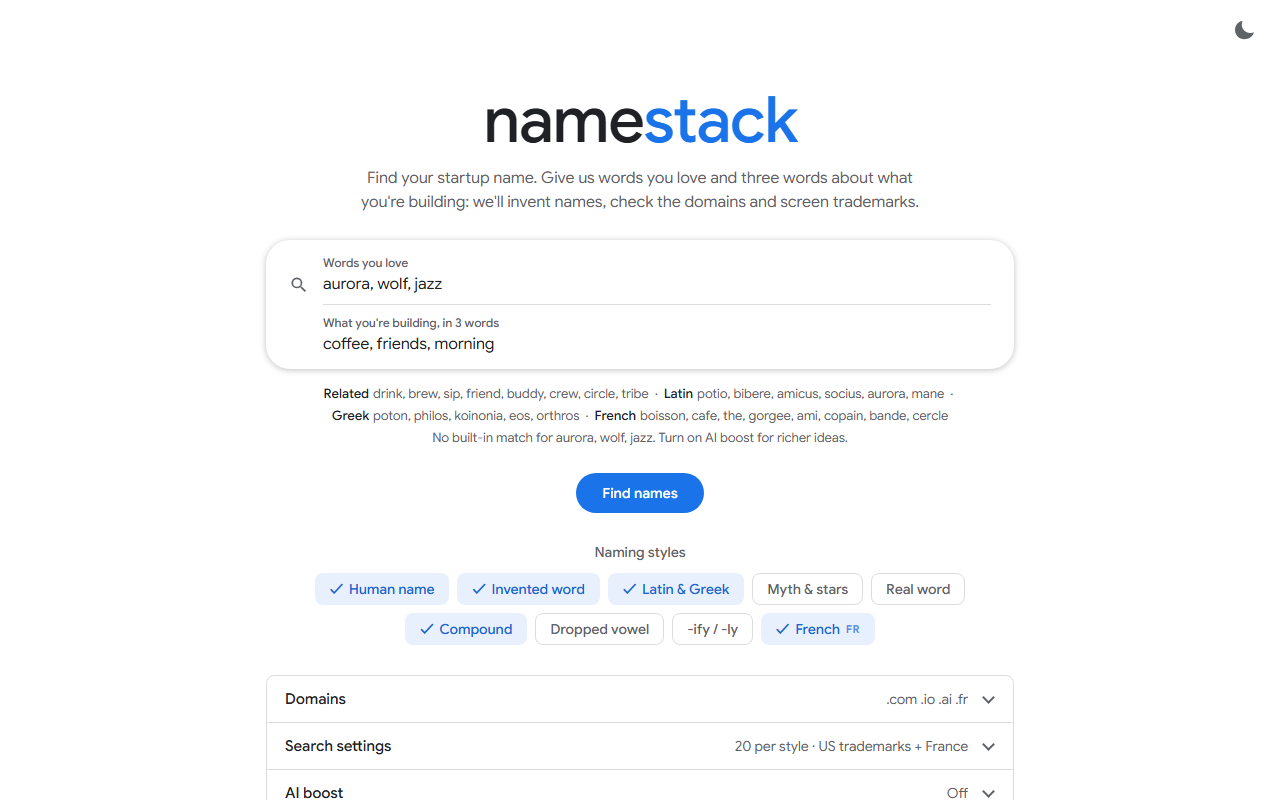
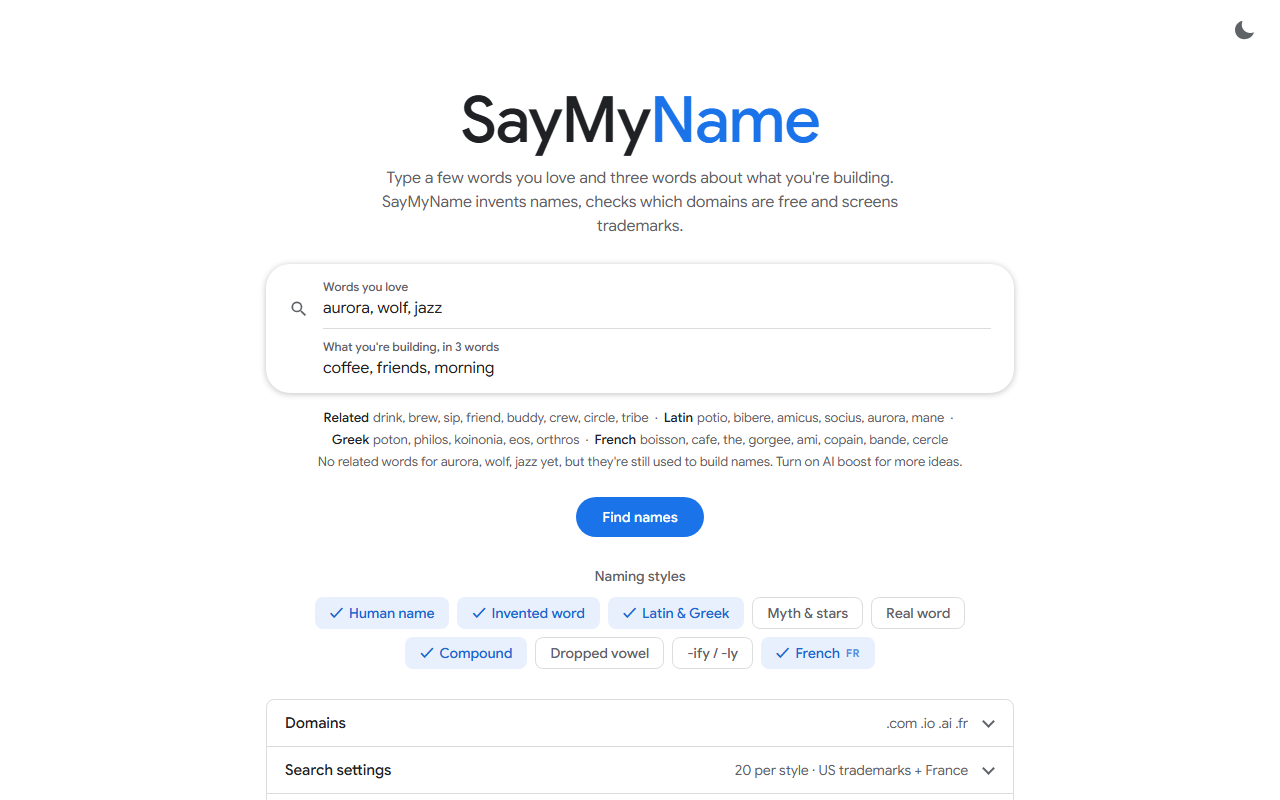
Rename the app to SayMyName and make Find names sing
- User-facing name is now SayMyName (logo, tab title, export files,
  launcher messages, README). The Python package and commands stay
  namestack.
- Clicking Find names shows a comic speech bubble next to the button
  singing "Say my name, say my name!" for 3 s, with the button bouncing
  and music notes floating up; the page then scrolls to the results.
- Clearer, consistent copy: matching status labels, capitalized status
  messages, "Done: N available domains", plainer settings and AI text.

diff --git a/namestack/server.py b/namestack/server.py
@@ -1,4 +1,4 @@
-"""namestack web UI - a zero-dependency localhost interface.
+"""SayMyName web UI (the namestack package) - a zero-dependency localhost interface.
 
 Serves a single-page app and streams availability/trademark results to the
 browser over Server-Sent Events. Only the Python standard library is required
@@ -34,10 +34,10 @@ INDEX_HTML = r"""<!doctype html>
 <head>
 <meta charset="utf-8">
 <meta name="viewport" content="width=device-width, initial-scale=1">
-<title>namestack</title>
+<title>SayMyName</title>
 <link rel="preconnect" href="https://fonts.googleapis.com">
 <link rel="preconnect" href="https://fonts.gstatic.com" crossorigin>
-<link rel="stylesheet" href="https://fonts.googleapis.com/css2?family=Google+Sans:wght@400;500;700&display=swap">
+<link rel="stylesheet" href="https://fonts.googleapis.com/css2?family=Google+Sans:wght@400;500;700&family=Bangers&display=swap">
 <script>
 try{ const t=localStorage.getItem('namestack.theme'); if(t==='light'||t==='dark') document.documentElement.dataset.theme=t; }catch{}
 </script>
@@ -189,12 +189,45 @@ tbody tr:hover{background:var(--hover)}
 #tip.show{opacity:1}
 #toast{position:fixed;left:50%;bottom:24px;transform:translateX(-50%);background:var(--tip-bg);color:var(--tip-text);
   border-radius:4px;padding:14px 16px;font-size:14px;display:none;max-width:calc(100vw - 32px);z-index:60;box-shadow:var(--menu-shadow)}
+/* "Say my name" bubble: the Find names button sings for 3 s when clicked */
+.singer{position:relative;display:inline-block}
+.smn{position:absolute;left:calc(100% + 26px);top:50%;transform:translateY(-50%);z-index:30;pointer-events:none;visibility:hidden}
+.smn.show{visibility:visible}
+.smn-bubble{position:relative;background:#fff;color:#111;border:3px solid #111;border-radius:50%/42%;padding:12px 20px;
+  font:400 22px/1.05 Bangers,"Comic Sans MS",cursive;letter-spacing:.04em;text-align:center;white-space:nowrap;
+  box-shadow:4px 4px 0 #111;transform-origin:0 50%;transform:scale(0)}
+.smn-bubble::before,.smn-bubble::after{content:"";position:absolute;width:0;height:0;border-style:solid}
+.smn-bubble::before{left:-27px;top:calc(50% - 11px);border-width:11px 30px 11px 0;border-color:transparent #111 transparent transparent}
+.smn-bubble::after{left:-19px;top:calc(50% - 7px);border-width:7px 21px 7px 0;border-color:transparent #fff transparent transparent}
+.smn.show .smn-bubble{animation:smn-pop .35s cubic-bezier(.2,1.8,.4,1) forwards,smn-sing .5s .45s ease-in-out 4 alternate,smn-out .25s 2.75s ease-in forwards}
+.smn-bubble .w{display:inline-block;opacity:0;transform:translateY(6px) scale(.6)}
+.smn.show .smn-bubble .w{animation:smn-word .25s cubic-bezier(.2,1.8,.4,1) forwards;animation-delay:calc(.2s + var(--i) * .2s)}
+.smn-note{position:absolute;bottom:70%;font-size:22px;color:var(--accent);opacity:0;pointer-events:none;visibility:hidden}
+.smn-note.show{visibility:visible;animation:smn-note 1.5s ease-out forwards;animation-delay:var(--d)}
+.btn-primary.singing{animation:smn-bounce .25s ease-in-out 12 alternate}
+@keyframes smn-pop{to{transform:scale(1)}}
+@keyframes smn-sing{from{transform:scale(1) rotate(-2deg)}to{transform:scale(1.06) rotate(2deg)}}
+@keyframes smn-out{from{transform:scale(1)}to{transform:scale(0);opacity:0}}
+@keyframes smn-word{to{opacity:1;transform:none}}
+@keyframes smn-note{0%{opacity:0;transform:translate(0,0) rotate(0)}20%{opacity:1}100%{opacity:0;transform:translate(var(--x),-60px) rotate(20deg)}}
+@keyframes smn-bounce{from{transform:scale(1)}to{transform:scale(1.06) translateY(-2px)}}
+@media (prefers-reduced-motion:reduce){
+  .smn.show .smn-bubble{animation:none;transform:none}
+  .smn.show .smn-bubble .w{animation:none;opacity:1;transform:none}
+  .btn-primary.singing{animation:none}
+  .smn-note{display:none}
+}
 @media (max-width:640px){
   .wrap{padding-top:12px}
   .logo{font-size:44px}.hero p{font-size:15px}
   .search{padding:4px 16px}
   .search .mag{display:none}
   .btn-primary{width:100%}
+  .singer{display:block;width:100%}
+  .smn{left:auto;right:6px;top:auto;bottom:calc(100% + 18px);transform:none}
+  .smn-bubble{font-size:19px;transform-origin:80% 100%}
+  .smn-bubble::before{left:auto;right:30%;top:auto;bottom:-27px;border-width:30px 11px 0 11px;border-color:#111 transparent transparent transparent}
+  .smn-bubble::after{left:auto;right:calc(30% + 4px);top:auto;bottom:-19px;border-width:21px 7px 0 7px;border-color:#fff transparent transparent transparent}
   .ai-grid{grid-template-columns:1fr}
 }
 </style>
@@ -208,8 +241,8 @@ tbody tr:hover{background:var(--hover)}
 </div>
 <div class="wrap">
   <div class="hero">
-    <h1 class="logo">name<span>stack</span></h1>
-    <p>Find your startup name. Give us words you love and three words about what you're building: we'll invent names, check the domains and screen trademarks.</p>
+    <h1 class="logo">SayMy<span>Name</span></h1>
+    <p>Type a few words you love and three words about what you're building. SayMyName invents names, checks which domains are free and screens trademarks.</p>
   </div>
 
   <div class="search">
@@ -225,7 +258,16 @@ tbody tr:hover{background:var(--hover)}
   </div>
   <div class="words" id="related"></div>
   <div class="actions">
-    <button class="btn btn-primary" id="run" data-tip="Generate names in the styles below, check every domain live, then screen the free ones for trademarks.">Find names</button>
+    <div class="singer">
+      <button class="btn btn-primary" id="run" data-tip="Invent names in the selected styles, check every domain live, then screen the free ones for trademarks.">Find names</button>
+      <div class="smn" id="smn" aria-hidden="true">
+        <div class="smn-bubble"><span class="w" style="--i:0">Say</span> <span class="w" style="--i:1">my</span> <span class="w" style="--i:2">name,</span><br><span class="w" style="--i:3">say</span> <span class="w" style="--i:4">my</span> <span class="w" style="--i:5">name!</span></div>
+      </div>
+      <span class="smn-note" style="left:12%;--d:.3s;--x:-16px" aria-hidden="true">&#9834;</span>
+      <span class="smn-note" style="left:45%;--d:.8s;--x:10px" aria-hidden="true">&#9835;</span>
+      <span class="smn-note" style="left:78%;--d:1.3s;--x:16px" aria-hidden="true">&#9834;</span>
+      <span class="smn-note" style="left:30%;--d:1.8s;--x:-10px" aria-hidden="true">&#9835;</span>
+    </div>
   </div>
 
   <div class="section-label">Naming styles</div>
@@ -242,9 +284,9 @@ tbody tr:hover{background:var(--hover)}
       </div>
     </details>
     <details>
-      <summary data-tip="How many names to make and which safety checks to run."><span class="t">Search settings</span><span class="v" id="sumSettings"></span></summary>
+      <summary data-tip="How many names to invent and which checks to run."><span class="t">Search settings</span><span class="v" id="sumSettings"></span></summary>
       <div class="panel">
-        <div class="line"><label for="perVibe" class="grow" data-tip="How many names to create for each selected style.">Names per style</label>
+        <div class="line"><label for="perVibe" class="grow" data-tip="How many names to invent for each selected naming style.">Names per style</label>
           <input type="range" id="perVibe" min="5" max="50" value="20"><span class="val" id="perVibeVal">20</span></div>
         <div class="line"><label for="minScore" class="grow" data-tip="Hide names below this brandability score (short, pronounceable, easy to spell).">Minimum brand score</label>
           <input type="range" id="minScore" min="0" max="100" value="0"><span class="val" id="minScoreVal">0</span></div>
@@ -260,9 +302,9 @@ tbody tr:hover{background:var(--hover)}
       </div>
     </details>
     <details id="aiCard">
-      <summary data-tip="Optional: plug in your own AI key for smarter, more creative names."><span class="t">AI boost</span><span class="v" id="aiStatus">Off</span></summary>
+      <summary data-tip="Optional: connect your own AI key for more creative names."><span class="t">AI boost</span><span class="v" id="aiStatus">Off</span></summary>
       <div class="panel">
-        <p class="hint">Paste an API key from your AI provider to brainstorm open-vocabulary names in every style. The key stays on this computer and is only sent to the provider you pick. Each run costs a few cents at most.</p>
+        <p class="hint">Paste an API key from your AI provider and the AI will suggest extra names in every naming style, even for words SayMyName doesn't know. The key stays on this computer and is only sent to the provider you pick. Each search costs a few cents at most.</p>
         <div class="ai-grid">
           <label for="aiProvider">Provider</label><select class="field" id="aiProvider" data-tip="The company whose AI model will brainstorm names."></select>
           <label for="aiKey">API key</label><input type="password" class="field" id="aiKey" placeholder="sk-..." autocomplete="off" data-tip="Your secret key from the provider's dashboard.">
@@ -270,7 +312,7 @@ tbody tr:hover{background:var(--hover)}
           <label for="aiBase" id="aiBaseLabel">Base URL</label><input type="text" class="field" id="aiBase" data-tip="API address. Only change it for self-hosted or custom providers.">
         </div>
         <div class="line">
-          <label class="switch" data-tip="Keep the key in this browser so AI unlocks automatically next time."><input type="checkbox" id="aiRemember"> Remember on this device</label>
+          <label class="switch" data-tip="Keep the key in this browser so AI connects automatically next time."><input type="checkbox" id="aiRemember"> Remember on this device</label>
           <span class="grow"></span>
           <button class="btn btn-plain" id="aiClear" disabled data-tip="Forget the key and turn AI off.">Disconnect</button>
           <button class="btn btn-primary" id="aiConfirm" data-tip="Test the key with your provider and turn AI on.">Connect</button>
@@ -290,7 +332,7 @@ tbody tr:hover{background:var(--hover)}
         <button class="on" data-f="ALL" data-tip="Show every domain checked.">All<span class="n" id="nAll">0</span></button>
         <button data-f="AVAILABLE" data-tip="Domains nobody owns: you can register these today.">Available<span class="n" id="nAvailable">0</span></button>
         <button data-f="REGISTERED" data-tip="Domains someone already owns.">Taken<span class="n" id="nRegistered">0</span></button>
-        <button data-f="OTHER" data-tip="The registry didn't give a clear answer (rate-limited or unreachable). Try again later.">Unclear<span class="n" id="nOther">0</span></button>
+        <button data-f="OTHER" data-tip="The registry didn't give a clear answer (busy or unreachable). Search again later.">Unclear<span class="n" id="nOther">0</span></button>
       </div>
       <details class="menu disabled" id="exportMenu">
         <summary class="btn btn-plain" data-tip="Download the results as a spreadsheet (CSV) or as JSON.">Export</summary>
@@ -329,7 +371,7 @@ const ORDER = { AVAILABLE:0, RATE_LIMITED:1, UNKNOWN:2, REGISTERED:3 };
 const TLD_ORDER = ['com','io','ai','fr','dev','app','co','net','org','tech','xyz','me','sh','ly','gg','fm','us','it','to','tv'];
 const selectedTlds = new Set(['com','io','ai']);
 const selectedVibes = new Set();
-const STATUS = { AVAILABLE:['Available','b-green'], REGISTERED:['Taken','b-red'], RATE_LIMITED:['Busy','b-orange'], UNKNOWN:['Unclear','b-gray'] };
+const STATUS = { AVAILABLE:['Available','b-green'], REGISTERED:['Taken','b-red'], RATE_LIMITED:['Unclear','b-orange'], UNKNOWN:['Unclear','b-gray'] };
 const TM = { NONE:['Clear','b-green','No similar US trademark found'], LOW:['Low risk','b-green','Related US trademarks exist, none look alike'],
   MEDIUM:['Similar','b-orange','A US trademark sounds alike'], HIGH:['Exact match','b-red','A US trademark with this exact name exists'],
   UNKNOWN:['?','b-gray','The USPTO did not answer'] };
@@ -425,7 +467,7 @@ function renderRelated(c){
   const parts=[row('Related',c.synonyms),row('Latin',c.latin),row('Greek',c.greek)];
   if(selectedVibes.has('french')) parts.push(row('French',c.french||[]));
   let html=parts.filter(Boolean).join(' &nbsp;·&nbsp; ');
-  if(c.unknown.length) html+=(html?'<br>':'')+`No built-in match for ${c.unknown.map(esc).join(', ')}${state.ai?', AI will cover it.':'. Turn on AI boost for richer ideas.'}`;
+  if(c.unknown.length) html+=(html?'<br>':'')+`No related words for ${c.unknown.map(esc).join(', ')} yet, but they're still used to build names.${state.ai?' AI will add more.':' Turn on AI boost for more ideas.'}`;
   $('related').innerHTML=html;
 }
 let inspireTimer=null;
@@ -519,7 +561,7 @@ function renderPicks(){
   }
   $('picksLabel').style.display=picks.length?'':'none';
   $('picks').innerHTML=picks.map(r=>{
-    const tags=[badge('Domain free','b-green','Nobody owns this domain yet.')];
+    const tags=[badge('Available','b-green','Nobody owns this domain yet.')];
     if(state.tm.has(r.name)) tags.push(tmBadge(r.name));
     const f=state.fr.get(r.name); if(f){ const [l,c]=FR[f.status]; tags.push(badge('France: '+l,c)); }
     return `<div class="pick"><div class="d">${esc(r.domain)}</div><div class="s">${esc(vibeLabel(r.kind))}${r.why?' · '+esc(r.why):''}</div><div class="tags">${tags.join('')}</div></div>`;
@@ -579,16 +621,30 @@ function handleFrame(frame){
   else if(ev==='done'){ $('stage').textContent=''; }
 }
 
+// "Say my name": the Find names button sings for 3 s, then the page scrolls to the results.
+let smnTimer=null;
+function singParts(){ return [$('smn'), ...document.querySelectorAll('.smn-note')]; }
+function hideSayMyName(){ clearTimeout(smnTimer); singParts().forEach(el=>el.classList.remove('show')); $('run').classList.remove('singing'); }
+function showSayMyName(){
+  hideSayMyName(); void $('smn').offsetWidth;  // restart the animations on every search
+  singParts().forEach(el=>el.classList.add('show')); $('run').classList.add('singing');
+  smnTimer=setTimeout(()=>{
+    hideSayMyName();
+    const r=$('results').getBoundingClientRect();
+    if(r.top>window.innerHeight*0.6) $('results').scrollIntoView({behavior:'smooth',block:'start'});
+  },3000);
+}
+
 function setRunning(on){
   state.running=on;
   const b=$('run'); b.textContent=on?'Stop':'Find names'; b.classList.toggle('stop',on);
-  b.dataset.tip=on?'Stop checking. Results found so far are kept.':'Generate names in the styles below, check every domain live, then screen the free ones for trademarks.';
+  b.dataset.tip=on?'Stop checking. Results found so far are kept.':'Invent names in the selected styles, check every domain live, then screen the free ones for trademarks.';
 }
 async function run(){
   if(state.running){ if(state.controller) state.controller.abort(); return; }
   const seeds=seedWords();
   if(!seeds.length){ toast("Add a few words you love, or three words about what you're building"); $('loves').focus(); return; }
-  if(!selectedVibes.size){ toast('Pick at least one style'); return; }
+  if(!selectedVibes.size){ toast('Pick at least one naming style'); return; }
   const tlds=[...selectedTlds, ...customTlds()];
   if(!tlds.length){ toast('Pick at least one domain ending under Domains'); return; }
   const payload={ seeds, tlds, vibes:[...selectedVibes], per_vibe:+$('perVibe').value,
@@ -602,8 +658,7 @@ async function run(){
   document.querySelectorAll('.group details').forEach(d=>d.open=false);
   $('results').classList.add('show'); $('exportMenu').classList.add('disabled'); $('exportMenu').open=false;
   $('elapsed').textContent='';
-  setRunning(true); render();
-  $('results').scrollIntoView({behavior:'smooth',block:'start'});
+  setRunning(true); render(); showSayMyName();
   $('stage').textContent=payload.use_ai?'Asking AI for ideas...':'Inventing names...';
   const t0=performance.now();
   state.controller=new AbortController();
@@ -622,7 +677,9 @@ async function run(){
   }catch(err){
     if(err.name!=='AbortError') toast('Error: '+err.message);
   }finally{
-    setRunning(false); $('stage').textContent=state.results.size?'Done':'';
+    setRunning(false);
+    const free=[...state.results.values()].filter(r=>r.status==='AVAILABLE').length;
+    $('stage').textContent=state.results.size?`Done: ${free} available domain${free===1?'':'s'}`:'';
     $('elapsed').textContent=((performance.now()-t0)/1000).toFixed(1)+'s';
     if(state.results.size) $('exportMenu').classList.remove('disabled');
     bump();
@@ -657,8 +714,8 @@ for(const id of ['loves','seeds']){
 for(const id of ['perVibe','concurrency','minScore']) $(id).addEventListener('input',()=>{ $(id+'Val').textContent=$(id).value; updateSummaries(); });
 for(const id of ['trademark','offline','customTlds']) $(id).addEventListener('input',updateSummaries);
 $('run').addEventListener('click',run);
-$('exportCsv').addEventListener('click',()=>download('namestack.csv',toCsv(rowsForExport()),'text/csv'));
-$('exportJson').addEventListener('click',()=>download('namestack.json',JSON.stringify(rowsForExport(),null,2),'application/json'));
+$('exportCsv').addEventListener('click',()=>download('saymyname.csv',toCsv(rowsForExport()),'text/csv'));
+$('exportJson').addEventListener('click',()=>download('saymyname.json',JSON.stringify(rowsForExport(),null,2),'application/json'));
 $('aiConfirm').addEventListener('click',confirmAi);
 $('aiClear').addEventListener('click',clearAi);
 $('filters').addEventListener('click',(e)=>{
@@ -709,7 +766,7 @@ $('themeBtn').addEventListener('click',()=>{
 
 
 class Handler(BaseHTTPRequestHandler):
-    server_version = "namestack/0.2"
+    server_version = "SayMyName/0.2"
 
     def log_message(self, _fmt: str, *_args) -> None:  # keep the console quiet
         return
@@ -744,7 +801,7 @@ class Handler(BaseHTTPRequestHandler):
         if path in ("/", "/index.html"):
             self._send_bytes(INDEX_HTML.encode("utf-8"), "text/html; charset=utf-8")
         elif path == "/api/health":
-            self._send_json({"ok": True, "app": "namestack", "version": "0.2.0"})
+            self._send_json({"ok": True, "app": "SayMyName", "version": "0.2.0"})
         elif path == "/api/meta":
             cfg = ai.current()
             self._send_json({
@@ -832,7 +889,7 @@ def _build_ideas(seeds, vibes, per_vibe, salt, use_ai, emit) -> tuple[list[Idea]
     """Local vibe ideas, plus LLM ideas (listed first in each vibe) when enabled."""
     ai_data = None
     if use_ai and ai.current() is not None:
-        emit("stage", {"message": "asking AI for ideas..."})
+        emit("stage", {"message": "Asking AI for ideas..."})
         try:
             ai_data = ai.brainstorm(seeds, vibes, per_vibe=max(5, per_vibe // 2))
         except ai.AIError as exc:
@@ -853,7 +910,7 @@ def _run_pipeline(params: dict, emit) -> None:
     seeds = _normalize_seeds(params.get("seeds", ""))
     tlds = _normalize_tlds(params.get("tlds", ["com", "io", "ai"]))
     if not seeds:
-        emit("error", {"message": "Add at least one seed word."})
+        emit("error", {"message": "Add a few words first."})
         return
     if not tlds:
         tlds = ["com", "io", "ai"]
@@ -884,7 +941,7 @@ def _run_pipeline(params: dict, emit) -> None:
     )
     emit("meta", {"total": len(candidates), "seeds": seeds, "tlds": tlds, "concepts": concepts})
     if not candidates:
-        emit("error", {"message": "No candidates generated. Lower min score or add seeds."})
+        emit("error", {"message": "No names to check. Lower the minimum brand score or add more words."})
         return
 
     by_domain = {c.domain: c for c in candidates}
@@ -951,7 +1008,7 @@ async def _async_checks(candidates, by_domain, checker, trademark, trademark_lim
 
             screens.append(check_fr_names(fr_targets, dry_run=offline, on_result=on_fr))
     if screens:
-        emit("stage", {"message": "screening trademarks and the French register..." if france else "screening trademarks..."})
+        emit("stage", {"message": "Screening trademarks and the French register..." if france else "Screening trademarks..."})
         await asyncio.gather(*screens)
 
     counts = Counter(r.status.value for r in results.values())
@@ -964,7 +1021,7 @@ async def _async_checks(candidates, by_domain, checker, trademark, trademark_lim
 def serve(host: str = "127.0.0.1", port: int = 8787) -> None:
     server = ThreadingHTTPServer((host, port), Handler)
     server.daemon_threads = True
-    print(f"namestack web UI: http://{host}:{port}  (Ctrl+C to stop)")
+    print(f"SayMyName: http://{host}:{port}  (Ctrl+C to stop)")
     try:
         server.serve_forever()
     except KeyboardInterrupt:
@@ -984,7 +1041,7 @@ def _open_browser(url: str, delay: float = 0.6) -> None:
 
 
 def main(argv=None) -> None:
-    parser = argparse.ArgumentParser(description="Launch the namestack web UI.")
+    parser = argparse.ArgumentParser(description="Launch the SayMyName web app.")
     parser.add_argument("--host", default="127.0.0.1", help="Bind host (default 127.0.0.1).")
     parser.add_argument("--port", type=int, default=8787, help="Port (default 8787).")
     parser.add_argument("--no-open", action="store_true", help="Do not open the browser automatically.")

diff --git a/README.md b/README.md
@@ -1,8 +1,10 @@
-# Startup Name Finder (namestack)
+# SayMyName
+
+*Formerly Startup Name Finder. The Python package and commands are still called `namestack`.*
 
 **Find a startup name, check if the domain is free, and screen it for trademarks. All in one click, free, on your own computer.**
 
-Type a few words you love and three words about what you're building. Startup Name Finder turns them into hundreds of brandable names (invented words, Latin & Greek roots, French words, compounds like Dropbox, human names like Alan...), checks live whether the `.com` / `.io` / `.ai` is actually available, and flags names that clash with US trademarks.
+Type a few words you love and three words about what you're building. SayMyName turns them into hundreds of brandable names (invented words, Latin & Greek roots, French words, compounds like Dropbox, human names like Alan...), checks live whether the `.com` / `.io` / `.ai` is actually available, and flags names that clash with US trademarks.
 
 ![Type your idea, pick naming styles](docs/screenshot-input.png)
 
@@ -43,7 +45,7 @@ Python is the free engine this app runs on.
 
 > Already have Python 3.9 or newer? Skip this step.
 
-### Step 2: Download Startup Name Finder
+### Step 2: Download SayMyName
 
 1. At the top of this GitHub page, click the green **`<> Code`** button.
 2. Click **Download ZIP**.
@@ -97,7 +99,7 @@ The screen is built around one button: type your idea, press **Find names** (or 
 | **Words you love** | Your favorite words: ones that mean something to you or just sound cool (`aurora, wolf, velvet`). Comma separated. |
 | **What you're building, in 3 words** | Three words that best describe your product, not a pitch (`coffee, friends, morning`). Both fields are used as a *theme*, not as the final name. |
 | **Related / Latin / Greek / French line** | Appears as you type. It shows the words the app will build names from. |
-| **Find names** (or Enter) | Go! Invents names, checks every domain live, then screens the free ones. Turns into **Stop** while running. |
+| **Find names** (or Enter) | Go! The button sings *"Say my name, say my name!"* for 3 seconds while SayMyName invents names, checks every domain live, then screens the free ones. The button turns into **Stop** while running. |
 
 ### 2. Style
 Click a style to turn it on (blue) or off. Pick as many as you like.
@@ -176,7 +178,7 @@ The app works fine without AI. With AI, it brainstorms with a language model too
 1. Go to **https://aistudio.google.com/apikey** and sign in with any Google account.
 2. Click **Create API key** (accept the terms if asked).
 3. Click the **copy** icon next to your new key. It starts with `AIza...`.
-4. In Startup Name Finder, click the **AI boost** row to open it.
+4. In SayMyName, click the **AI boost** row to open it.
 5. **Provider:** choose **Google Gemini**.
 6. **API key:** paste your key (Ctrl+V on Windows, Cmd+V on Mac).
 7. Leave **Model** and **Base URL** as they are.
